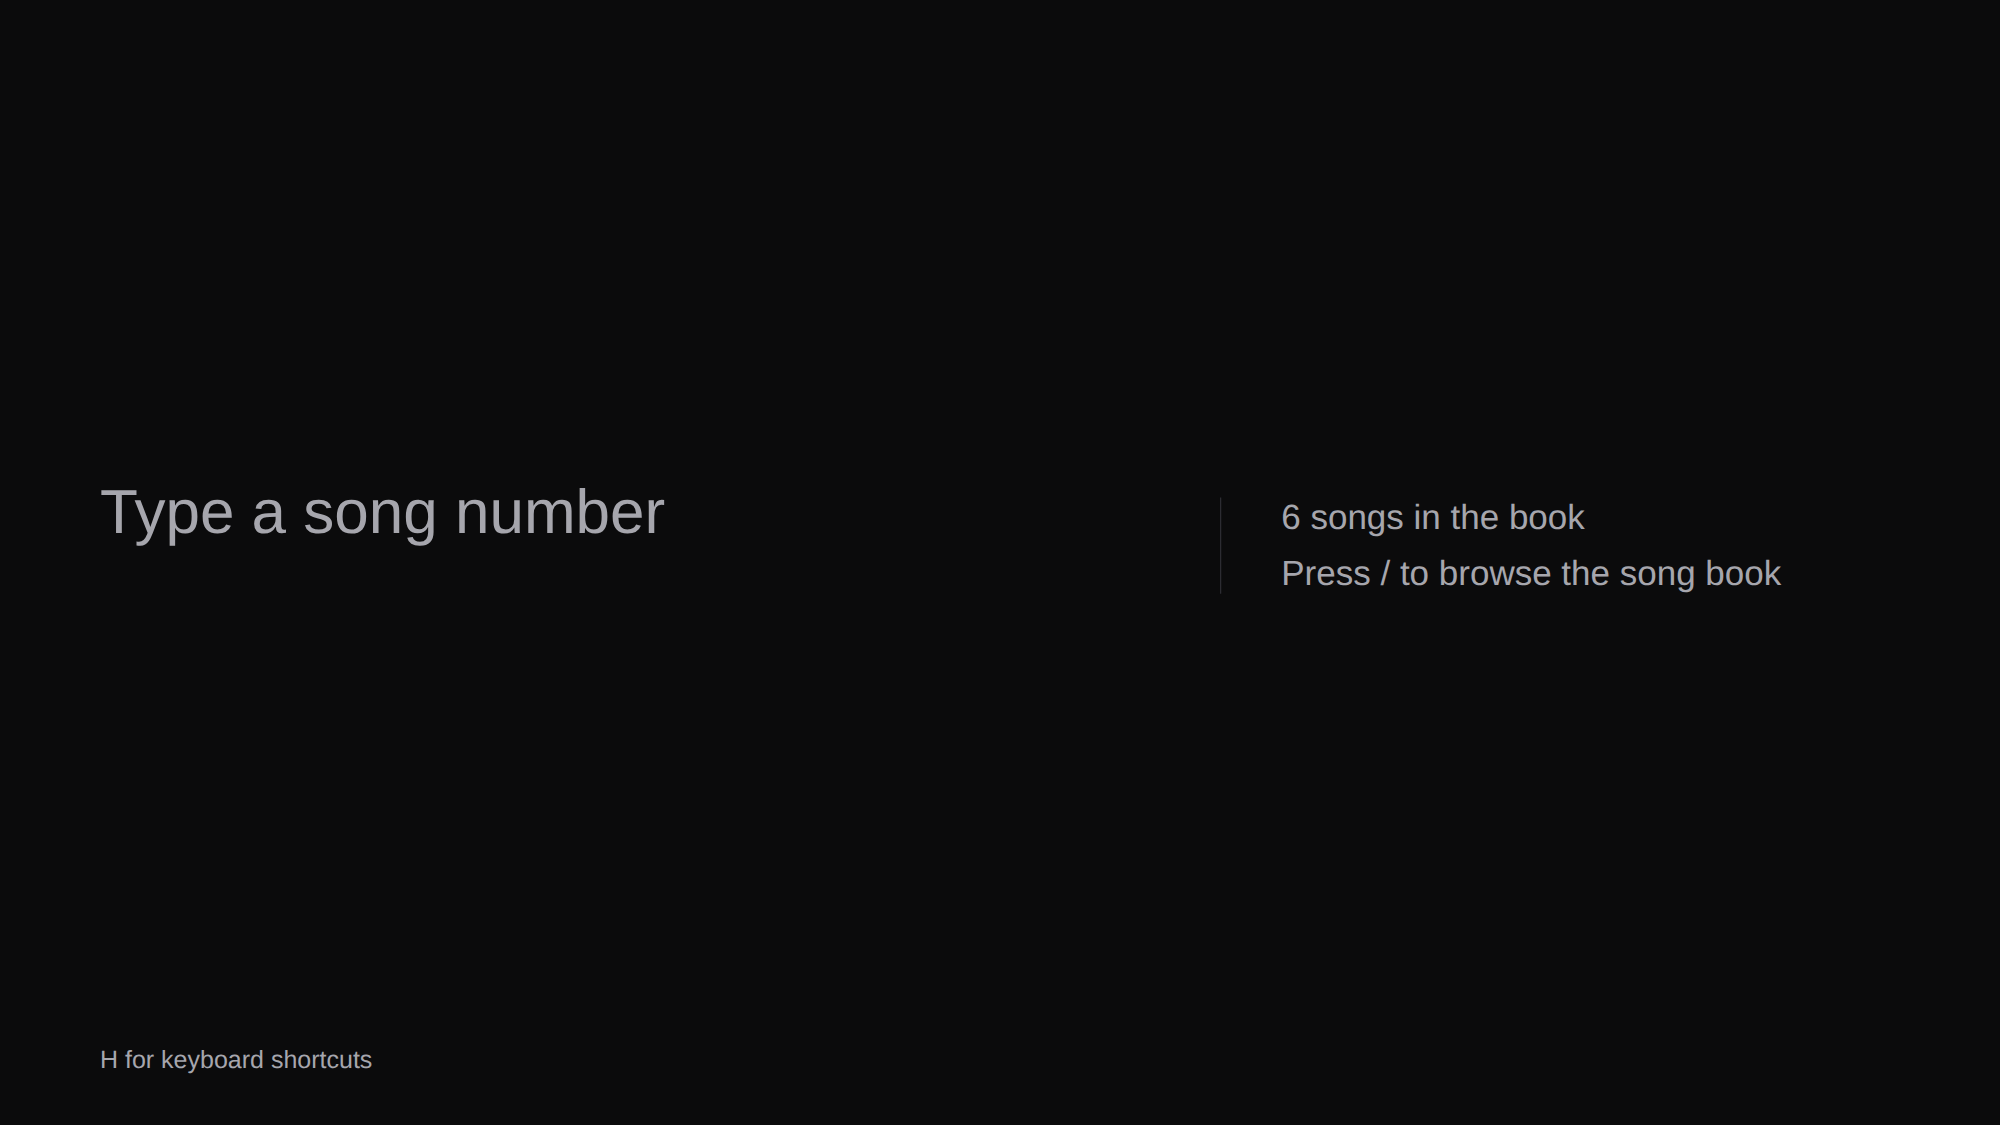
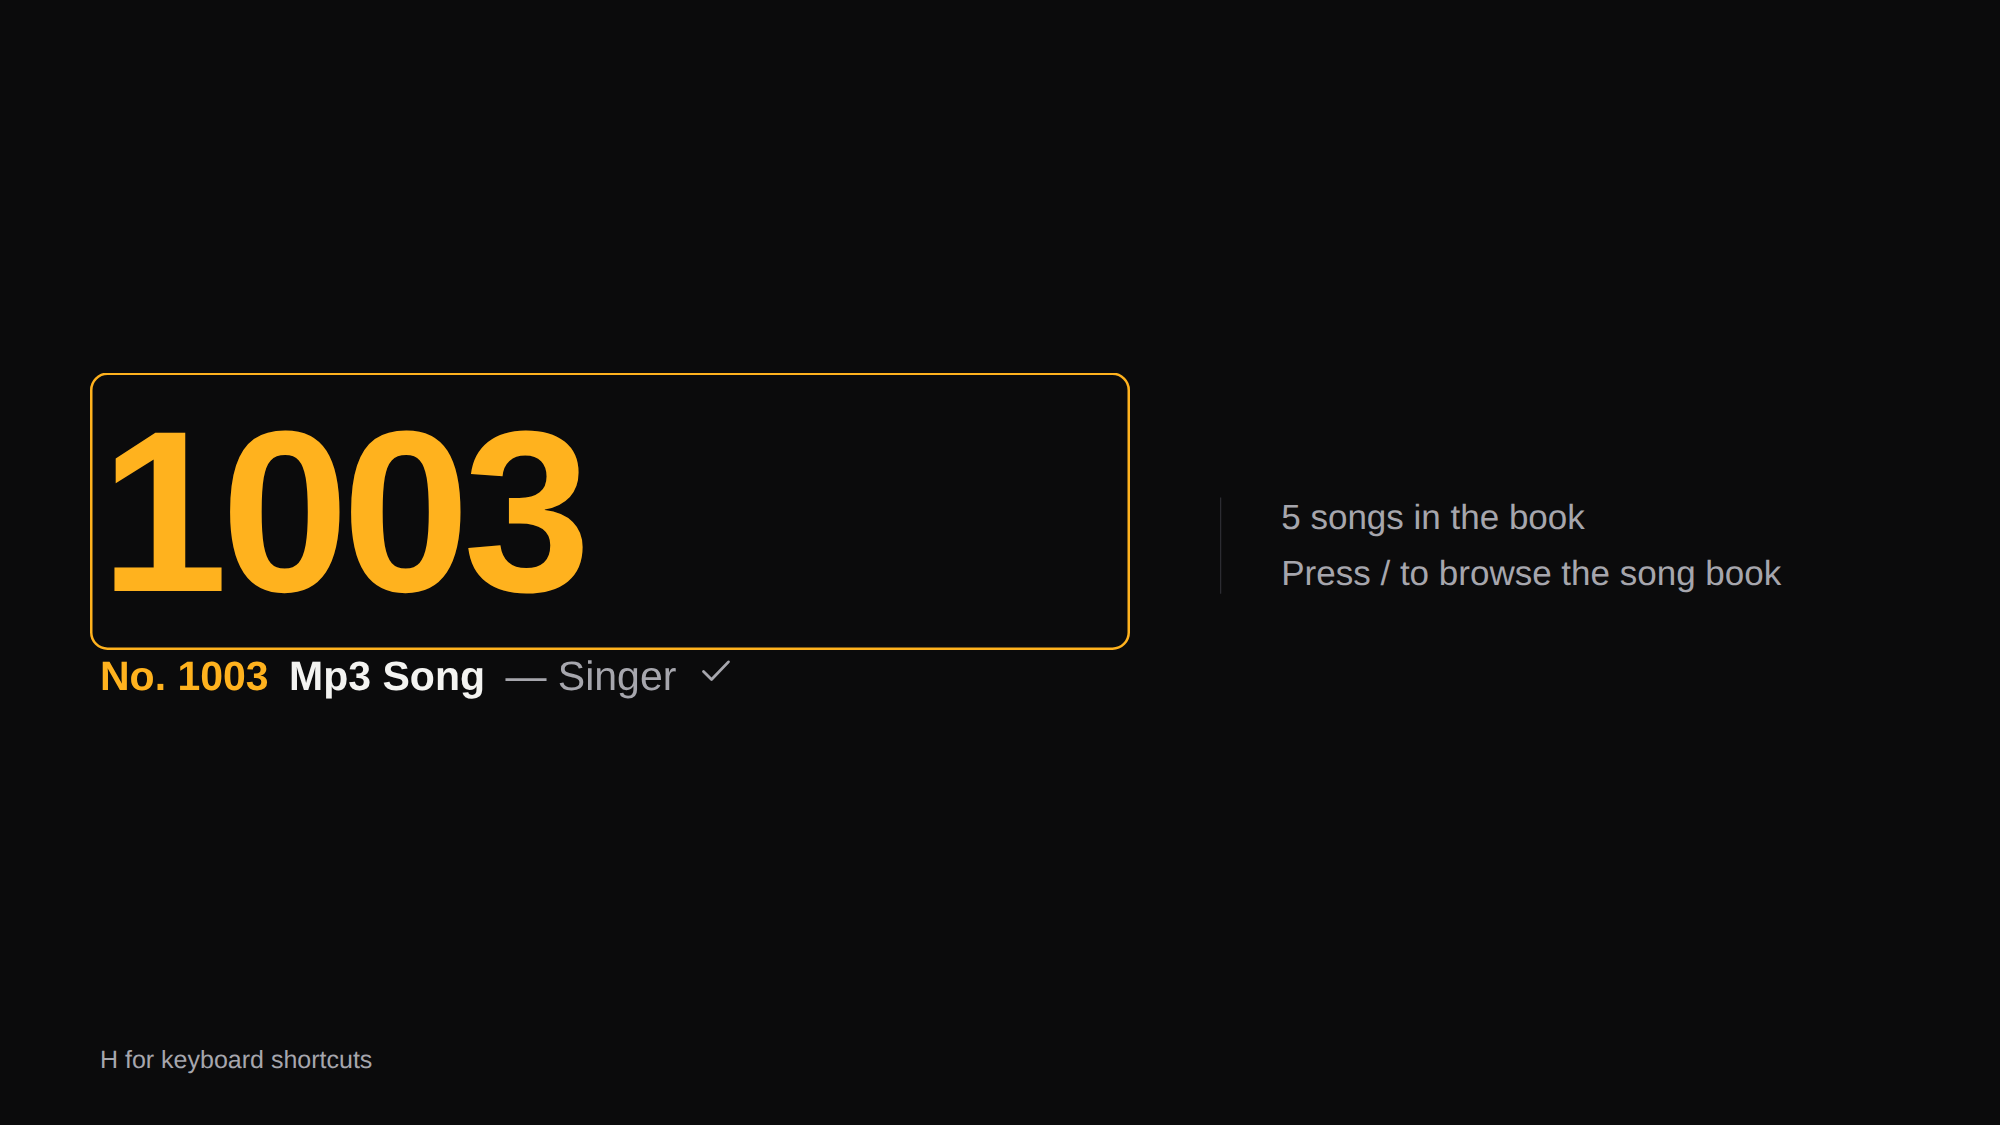
README: screenshots of the current UI (idle preview, intro, lyrics, song book, find lyrics + speech recognition, tap-to-sync, settings)

Changed region(s): [[0.031, 0.3733, 0.341, 0.5289], [0.031, 0.56, 0.248, 0.6222], [0.279, 0.56, 0.341, 0.6222]]

diff --git a/README.md b/README.md
@@ -45,8 +45,16 @@ Download songs → Settings → Import (or `karaokeimp`, or just drop files in a
 
 <table>
   <tr>
-    <td width="50%" align="center"><img src="docs/screenshots/idle.png" alt="Idle screen: Type a song number, song count, song book hint"></td>
-    <td width="50%" align="center"><img src="docs/screenshots/intro.png" alt="Intro screen with song number, title, artist and countdown bar"></td>
+    <td width="50%" align="center"><img src="docs/screenshots/idle.png" alt="Idle screen: song number 1003 typed, the matching song previewed under it"><br><sub>Type a number: the song shows before you press Enter</sub></td>
+    <td width="50%" align="center"><img src="docs/screenshots/intro.png" alt="Intro screen with song number, title, artist and countdown bar"><br><sub>Intro with countdown</sub></td>
+  </tr>
+  <tr>
+    <td align="center"><img src="docs/screenshots/songbook.png" alt="Song book panel with search, language chip, Missing lyrics filter and lyrics marks"><br><sub>Song book (<code>/</code>): search, filters, lyrics marks</sub></td>
+    <td align="center"><img src="docs/screenshots/find-lyrics.png" alt="Find lyrics dialog with artist, title, search and Time with speech recognition"><br><sub>Find lyrics (<code>L</code>) and speech-recognition timing</sub></td>
+  </tr>
+  <tr>
+    <td align="center"><img src="docs/screenshots/sync.png" alt="Tap-to-sync: one lyric line large, with arrows to choose a line"><br><sub>Tap-to-sync (<code>T</code>)</sub></td>
+    <td align="center"><img src="docs/screenshots/settings.png" alt="Settings panel: General, Library, Import"><br><sub>Settings (<code>S</code>): library, import, diagnostics</sub></td>
   </tr>
 </table>
 
